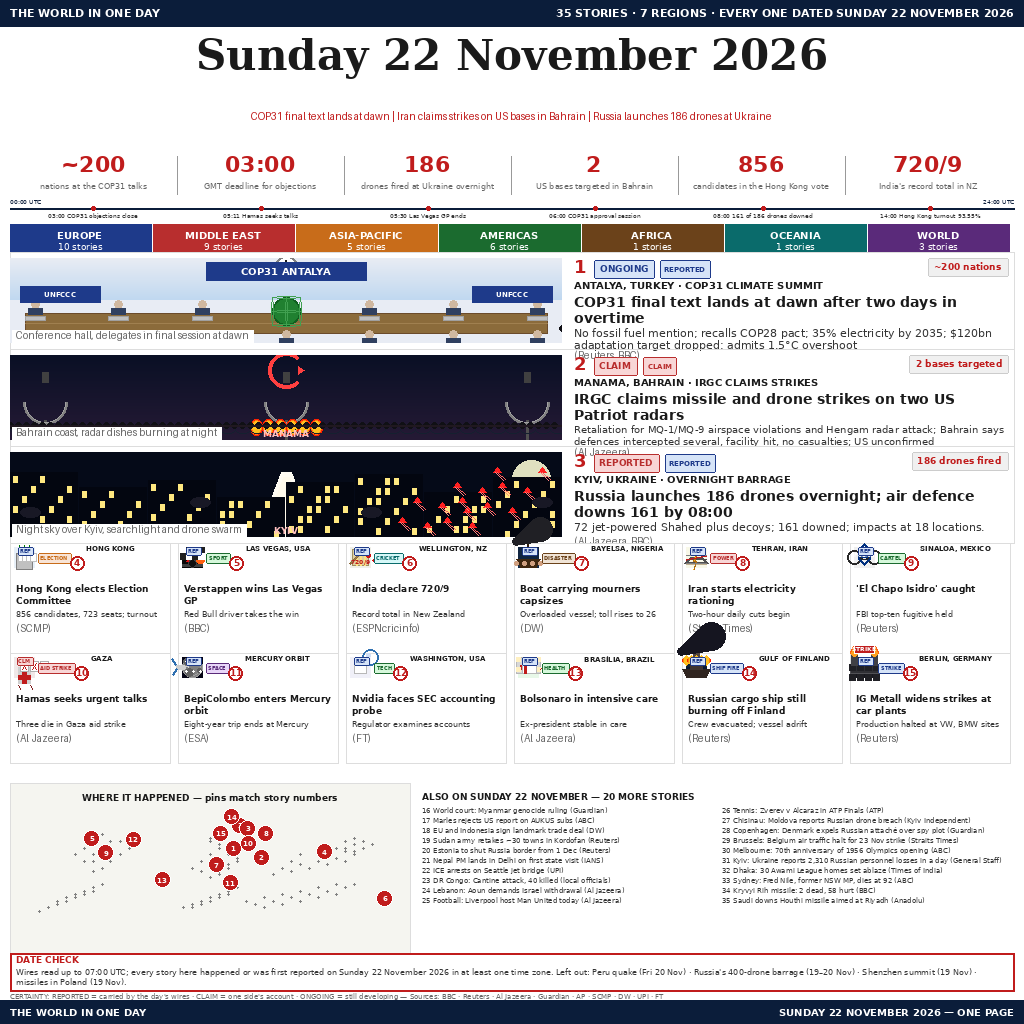
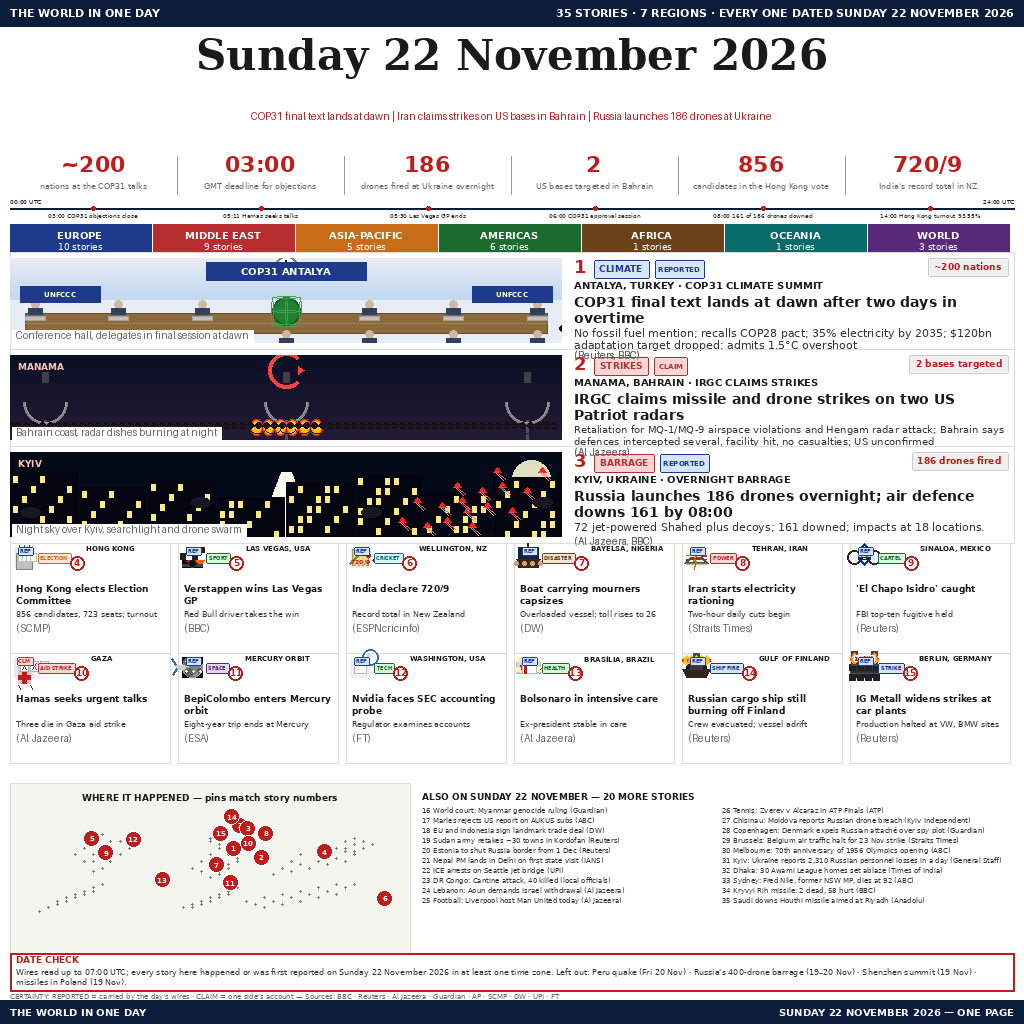
Round 4 fix 2: smoke overflow, duplicated lead tags, source repaint, MANAMA/KYIV labels

diff --git a/tools/generate.py b/tools/generate.py
@@ -389,7 +389,7 @@ for i, (name, count, color, tag_bg) in enumerate(regions):
 # ═══════════════════════════════════════════════════════════════
 lead_stories = [
     {
-        "num": 1, "place": "ANTALYA, TURKEY", "tag": "ONGOING", "kicker": "COP31 CLIMATE SUMMIT",
+        "num": 1, "place": "ANTALYA, TURKEY", "tag": "CLIMATE", "kicker": "COP31 CLIMATE SUMMIT",
         "certainty": "REPORTED",  # NEW: certainty tag for kicker line
         "tag_color": EUROPE_BLUE, "tag_bg": TAG_BLUE,
         "headline": "COP31 final text lands at dawn after two days in overtime",
@@ -397,7 +397,7 @@ lead_stories = [
         "source": "(Reuters, BBC)", "stat": "~200 nations", "illustration": "climate",
     },
     {
-        "num": 2, "place": "MANAMA, BAHRAIN", "tag": "CLAIM", "kicker": "IRGC CLAIMS STRIKES",
+        "num": 2, "place": "MANAMA, BAHRAIN", "tag": "STRIKES", "kicker": "IRGC CLAIMS STRIKES",
         "certainty": "CLAIM",  # NEW: IRGC's own claim
         "tag_color": MIDEAST_RED, "tag_bg": TAG_RED,
         "headline": "IRGC claims missile and drone strikes on two US Patriot radars",
@@ -405,7 +405,7 @@ lead_stories = [
         "source": "(Al Jazeera)", "stat": "2 bases targeted", "illustration": "bahrain",
     },
     {
-        "num": 3, "place": "KYIV, UKRAINE", "tag": "REPORTED", "kicker": "OVERNIGHT BARRAGE",
+        "num": 3, "place": "KYIV, UKRAINE", "tag": "BARRAGE", "kicker": "OVERNIGHT BARRAGE",
         "certainty": "REPORTED",  # NEW: wire-reported
         "tag_color": MIDEAST_RED, "tag_bg": TAG_RED,
         "headline": "Russia launches 186 drones overnight; air defence downs 161 by 08:00",
@@ -517,7 +517,7 @@ def draw_illustration_on_layer(draw, type_, x, y, w, h):
             draw.arc([x+wx, coast_y, x+wx+15, coast_y+8], 0, 180, fill=(0x15,0x20,0x30), width=1)
         # MANAMA label
         f_b = get_font("sans", 9, bold=True)
-        draw_text_on_layer(draw, cx, y+h-6, "MANAMA", f_b, (0xFF,0xC0,0xC0), anchor="mm")
+        draw_text_on_layer(draw, x+8, y+8, "MANAMA", f_b, (0xFF,0xC0,0xC0), anchor="lt")
   
     elif type_ == "kyiv":
         # Kyiv: night skyline with lit windows, searchlight beam, drones with trails
@@ -558,7 +558,7 @@ def draw_illustration_on_layer(draw, type_, x, y, w, h):
             draw.ellipse([sx-10, sy-5, sx+10, sy+5], fill=(0x18,0x18,0x25))
         # KYIV label
         f_k = get_font("sans", 9, bold=True)
-        draw_text_on_layer(draw, cx, y+h-6, "KYIV", f_k, (0xFF,0xC0,0xC0), anchor="mm")
+        draw_text_on_layer(draw, x+8, y+8, "KYIV", f_k, (0xFF,0xC0,0xC0), anchor="lt")
 
 
 # ─── Draw continuous panorama on a SEPARATE layer, then clip to each panel ───
@@ -575,6 +575,9 @@ cont_draw = ImageDraw.Draw(cont_layer)
 draw_illustration_on_layer(cont_draw, "climate", 0, 0, panel_w, ill_h)
 draw_illustration_on_layer(cont_draw, "bahrain", panel_w, 0, panel_w, ill_h)
 draw_illustration_on_layer(cont_draw, "kyiv", 2*panel_w, 0, panel_w, ill_h)
+
+# Collect lead sources for repaint after mid cards
+lead_sources = []
 
 # Now draw each lead panel with CLIPPED illustration
 for i, story in enumerate(lead_stories):
@@ -672,6 +675,8 @@ for i, story in enumerate(lead_stories):
     # round 2's render); 1-line deck -> +90 (round 3's value, clean there).
     ty += max(deck_h, 16)
     draw_text(text_x, ty, story["source"], f_lead_source, MED_GREY)
+    # Collect for repaint after mid cards (fixes lead 3 clipping)
+    lead_sources.append((text_x, ty, story["source"]))
 
 # ════════════════════════════════════════════════════════════════
 # 6. THE DAY IN TWELVE - 2 rows of 6 cards (numbered 4-15) (y 543–783)
@@ -876,12 +881,6 @@ def draw_mid_illustration(type_, x, y, w, h):
         D.polygon([(cx-12, cy+2), (cx+12, cy+2), (cx+8, cy+10), (cx-8, cy+10)], fill=(0x40,0x28,0x10))
         # Mast
         D.line([cx, cy-2, cx, cy-14], fill=(0x30,0x20,0x10), width=2)
-        # Smoke
-        for i in range(5):
-            sx = cx + (i-2)*6
-            sy = cy - 16 - i*3
-            sr = 4 + i*2
-            D.ellipse([sx-sr, sy-sr, sx+sr, sy+sr], fill=(0x20,0x20,0x25))
         # People in water
         for i in range(4):
             px = cx - 12 + i*8
@@ -1007,12 +1006,6 @@ def draw_mid_illustration(type_, x, y, w, h):
             fx = cx + (f-2)*5
             for layer, (fr, fg, fb) in enumerate([(0xFF,0x20,0x00), (0xFF,0x80,0x10), (0xFF,0xC0,0x20)]):
                 D.ellipse([fx-4+layer, cy-10-layer, fx+4-layer, cy-4+layer], fill=(fr, fg, fb))
-        # Smoke plumes
-        for i in range(6):
-            sx = cx + (i-2.5)*6
-            sy = cy - 16 - i*3
-            sr = 4 + i*2
-            D.ellipse([sx-sr, sy-sr, sx+sr, sy+sr], fill=(0x15,0x15,0x20))
     elif type_ == "factory_strike":
         # Factory + flames + picket sign (richer)
         D.rectangle([x, y, x+w, y+h], fill=(0x18,0x18,0x20))
@@ -1022,17 +1015,17 @@ def draw_mid_illustration(type_, x, y, w, h):
         for wx in [cx-12, cx-4, cx+4, cx+12]:
             for wy in [cy, cy+10]:
                 D.rectangle([wx-3, wy-3, wx+3, wy+3], fill=(0x20,0x20,0x25))
-        # Chimneys with flames
+        # Chimneys with flames - clamped so nothing above y+1 (cy-9 for h=20)
         for ch_x in [cx-10, cx+10]:
             D.rectangle([ch_x-3, cy-16, ch_x+3, cy-2], fill=(0x40,0x40,0x45))
-            # Flame
+            # Flame - tops at cy-11 (y+1), then down
             for f in range(3):
-                D.ellipse([ch_x-4+f, cy-18-f*2, ch_x+4-f, cy-12-f*2], fill=(0xFF,0x60,0x10))
-                D.ellipse([ch_x-3+f, cy-17-f*2, ch_x+3-f, cy-11-f*2], fill=(0xFF,0xA0,0x20))
-        # Picket sign
-        D.line([cx, cy-2, cx, cy-20], fill=WHITE, width=2)
-        D.rectangle([cx-10, cy-22, cx+10, cy-14], fill=RED, outline=WHITE)
-        draw_text(cx, cy-18, "STRIKE", get_font("sans", 6, bold=True), WHITE, anchor="mm")
+                D.ellipse([ch_x-4+f, cy-11-f*2, ch_x+4-f, cy-5-f*2], fill=(0xFF,0x60,0x10))
+                D.ellipse([ch_x-3+f, cy-10-f*2, ch_x+3-f, cy-4-f*2], fill=(0xFF,0xA0,0x20))
+        # Picket sign - clamped: rect cy-12..cy-6, pole cy-2..cy-10
+        D.line([cx, cy-2, cx, cy-10], fill=WHITE, width=2)
+        D.rectangle([cx-10, cy-12, cx+10, cy-6], fill=RED, outline=WHITE)
+        draw_text(cx, cy-9, "STRIKE", get_font("sans", 6, bold=True), WHITE, anchor="mm")
 
 
 card_w = 160
@@ -1044,6 +1037,11 @@ for row in range(2):
         idx = row * 6 + col
         x_card = PAD_X + col * (card_w + card_gap)
         draw_mid_card(mid_stories[idx], x_card, y_row)
+
+# ─── Repaint lead sources (drawn AFTER mid cards so nothing clips them) ───
+f_lead_source = get_font("sans", 9, italic=True)
+for src_x, src_y, src_text in lead_sources:
+    draw_text(src_x, src_y, src_text, f_lead_source, MED_GREY)
 
 # ════════════════════════════════════════════════════════════════
 # 7. BOTTOM SECTION: Map (left) + ALSO ON 20 stories (right, 2 cols) (y 783–953)
@@ -1265,7 +1263,7 @@ draw_text_wrapped(PAD_X + 6, dc_y + 14, dc_text, f_dc_text, DARK_GREY, W - 2*PAD
 # 9. MERGED LEGEND (single line at y=996, anchor "lm", 7pt)
 # ════════════════════════════════════════════════════════════════
 f_legend = get_font("sans", 7)
-legend_text = "CERTAINTY: REPORTED = carried by the day's wires \u00b7 CLAIM = one side's account \u00b7 ONGOING = still developing \u2014 Sources: BBC \u00b7 Reuters \u00b7 Al Jazeera \u00b7 Guardian \u00b7 AP \u00b7 SCMP \u00b7 DW \u00b7 UPI \u00b7 FT"
+legend_text = "CERTAINTY: REPORTED = carried by the day's wires \u00b7 CLAIM = one side's account \u2014 Sources: BBC \u00b7 Reuters \u00b7 Al Jazeera \u00b7 Guardian \u00b7 AP \u00b7 SCMP \u00b7 DW \u00b7 UPI \u00b7 FT"
 draw_text(PAD_X, y_legend_y, legend_text, f_legend, MED_GREY, anchor="lm")
 
 # ════════════════════════════════════════════════════════════════
@@ -1555,6 +1553,7 @@ print(f"Saved to out/entry.png")
 
 # Save crops from out/entry.png (1024x1024) with PIL
 from PIL import Image as PILImage
+import shutil
 entry_img = PILImage.open("out/entry.png")
 # out/top_section.png = y 0–260 (masthead + stat + UTC + region + lead 1 top)
 entry_img.crop((0, 0, 1024, 260)).save("out/top_section.png")
@@ -1564,8 +1563,8 @@ entry_img.crop((0, 240, 1024, 550)).save("out/lead_panels.png")
 entry_img.crop((0, 540, 1024, 790)).save("out/mid_section.png")
 # out/bottom_section.png = y 770–1024 (map + ALSO ON + DATE CHECK + legend + footer)
 entry_img.crop((0, 770, 1024, 1024)).save("out/bottom_section.png")
-# out/full_check.png = copy of out/entry.png
-entry_img.save("out/full_check.png")
+# out/full_check.png = byte-identical copy of out/entry.png (cp, do not re-encode)
+shutil.copy2("out/entry.png", "out/full_check.png")
 
 # Print MD5 and byte size of out/entry.png
 import hashlib
